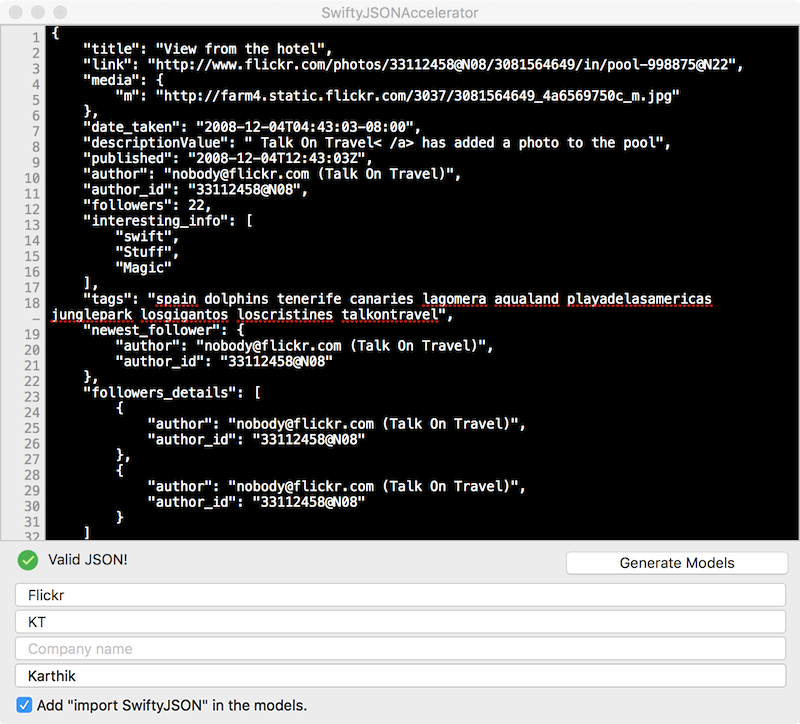
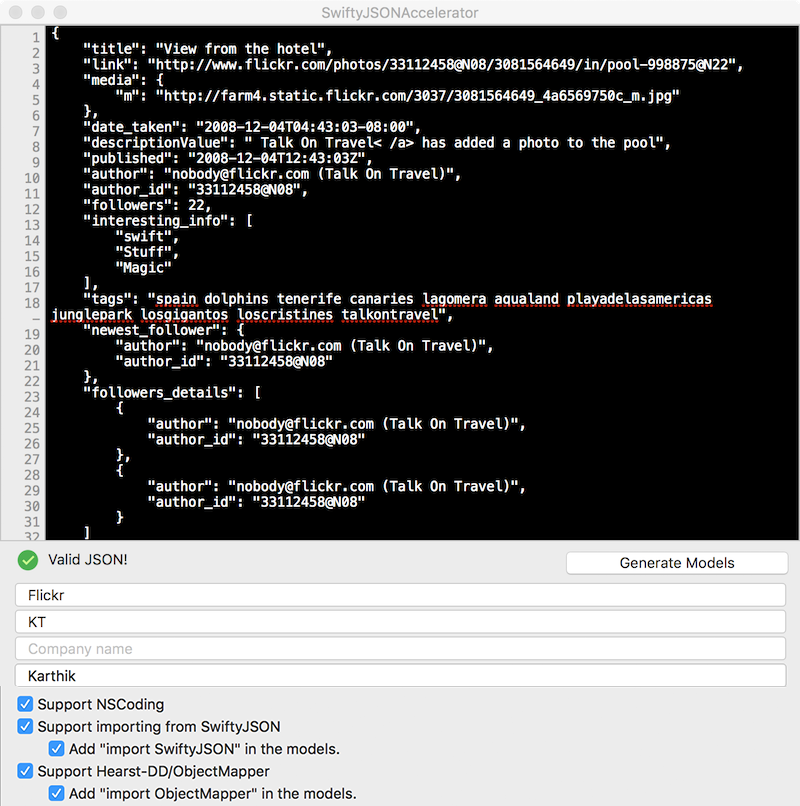
#3 updated README.md for version 0.0.3

Changed region(s): [[0.0, 0.0, 1.0, 1.0]]

diff --git a/README.md b/README.md
@@ -1,19 +1,24 @@
 # SwiftyJSONAccelerator
 
-**(Alpha v0.0.2)**
+**(Alpha v0.0.3)**
 
-[Download the .app (v0.0.2)](https://github.com/insanoid/SwiftyJSONAccelerator/releases/download/v0.0.2/SwiftyJSONAccelerator.zip)
+[Download the .app (v0.0.3)](https://github.com/insanoid/SwiftyJSONAccelerator/releases/download/v0.0.3/SwiftyJSONAccelertor.zip)
 
 ![Logo](https://raw.githubusercontent.com/insanoid/SwiftyJSONAccelerator/master/SwiftyJSONAccelerator/Assets.xcassets/AppIcon.appiconset/Icon_32x32%402x.png)
 
-A swift model generator like the Objective-C [JSONAccelerator](http://nerdery.com/json-accelerator). Formats and generates models for the given JSON and also breaks them into files making it easy to manage and share between several models. it relies on [SwiftyJSON](https://github.com/SwiftyJSON/SwiftyJSON) and requires you to include it in your project.
+A swift model generator like the Objective-C [JSONAccelerator](http://nerdery.com/json-accelerator). Formats and generates models for the given JSON and also breaks them into files making it easy to manage and share between several models.
+
+The models that are generated depend on JSON object mapping libraries, currently the model can be generated to depend on any of the below mentioned mapping libraries:
+
+- [SwiftyJSON](https://github.com/SwiftyJSON/SwiftyJSON)
+- [Hearst-DD/ObjectMapper](https://github.com/Hearst-DD/ObjectMapper) (Contributed by: [brendan09](https://github.com/brendan09))
 
 Currently, the pattern is very similar to its Objective-C counterpart. It generates classes with following properties.
 
-- Initalize with `JSON` (SwiftyJSON based)
+- Initalize with `JSON` (SwiftyJSON or ObjectMapper)
 - Initalize with `AnyObject`
-- `NSCoding` compliant (Can be Archived using `NSKeyedArchiver`)
-- Convert to `NSDictionary`
+- Optional `NSCoding` compliance.
+- Convert object to `NSDictionary`
 	 
 ![Preview](https://raw.githubusercontent.com/insanoid/SwiftyJSONAccelerator/master/preview.png)
 
@@ -22,14 +27,14 @@ Currently, the pattern is very similar to its Objective-C counterpart. It genera
 
 ![Preview](https://raw.githubusercontent.com/insanoid/SwiftyJSONAccelerator/master/preview_ii.png)
 
-*Files are generated individually making it more easy to use.*
+*Each class in the JSON is generated as a file.*
 
 ## TODO
 
 - Handle blank array a bit better.
 - Better User Interface and icon.
 - Generate both `struct` and `class`.
-- Support for generation of models that do not need SwiftyJSON.
+- Support for further JSON object modelling libraries.
 - Add tests and integrate with Travis CI.
 - Create a Xcode plugin and a command line executor.
 
